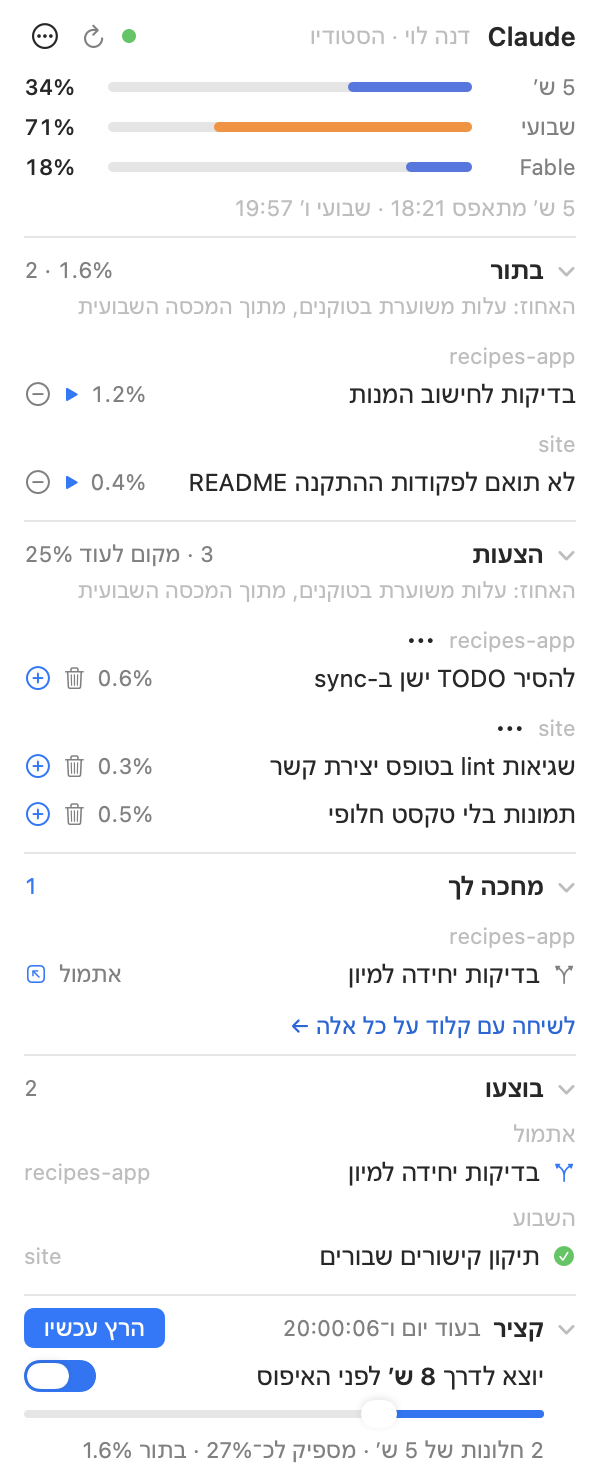
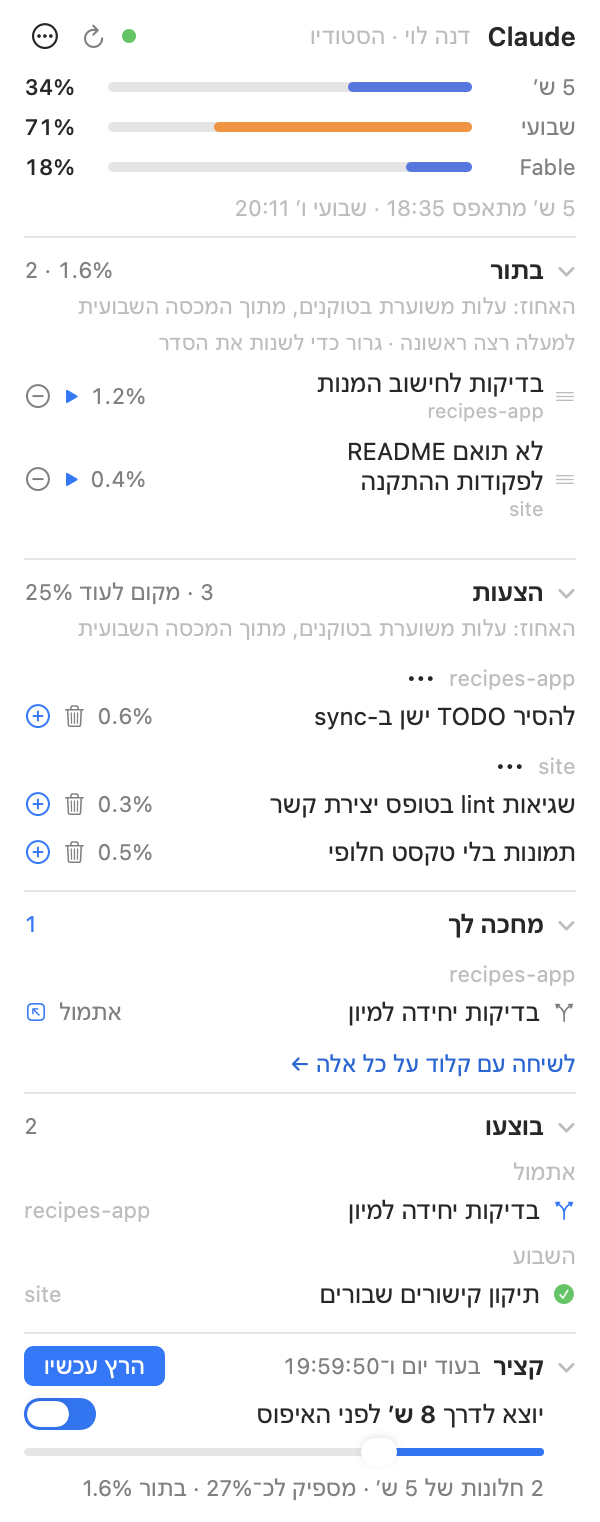
Drag the queue into your own order
The queue now shows as one list in the order the harvest runs it — the top
task first — and a task can be dragged (by its ≡ grip or anywhere on the row)
onto another to land above it, or below the last to go last. Left alone, the
order is automatic: priority, then the bigger estimate first.

The list and the run use one ordering (`ordered_queue` in the engine): before
this, the panel sorted by priority and date added while `plan` picked by
priority and size, so what looked first didn't always run first. The owner's
order lives in ~/.claude/harvest/queue-order.json (`claude-harvest
queue-order <project>::<title>…`, `--reset`; refused in unattended runs); tasks
placed by hand come first, the rest follow automatically, and "↺ Back to the
automatic order" appears once anything was dragged. The project's name sits
under each title when the queue spans projects.

Help (both languages), SPEC, both READMEs and the screenshots updated. Engine:
32 tests (a new one: the owner's order across projects, in list and plan,
unknown keys ignored, reset, unattended refused). Installer: 6.

diff --git a/QuotaHarvest.swift b/QuotaHarvest.swift
@@ -511,6 +511,8 @@ struct HTask: Decodable, Identifiable, Equatable {
     let summary: String?
     let sessionId: String?
     let estimate: HEstimate?
+    /// In the queue: placed by the owner's drag rather than by the automatic order.
+    let placed: Bool?
     var id: String { project + "::" + title }
 }
 
@@ -1104,6 +1106,8 @@ protocol WidgetActions: AnyObject {
     func setProposals(project: String, name: String, on: Bool)
     func setLanguage(hebrew: Bool)
     func saveHarvestSettings(_ values: [String])
+    func moveQueued(_ id: String, before target: String?)
+    func resetQueueOrder()
 }
 
 final class WidgetModel: ObservableObject {
@@ -1117,6 +1121,8 @@ final class WidgetModel: ObservableObject {
     /// Whether the harvest engine is installed; until it is, the panel shows only the usage and
     /// an invitation to set it up. True until the first check, so nothing flashes at start.
     @Published var harvestInstalled = true
+    /// The queued task a dragged one would land above while it's held over it ("end" = the bottom).
+    @Published var queueDropTarget: String?
     @Published var listing = HListing() {
         didSet {
             if let dir = listing.settings?.workdir, !dir.isEmpty {
@@ -1299,11 +1305,62 @@ struct PanelView: View {
             EmptyLine(text: L("התור ריק — ⊕ ליד הצעה מכניס אותה לתור", "The queue is empty — ⊕ next to a proposal puts it in"))
         } else {
             PctCaption()
-            ByProject(tasks: m.listing.queue) { t in
-                TaskRow(task: t, queued: true, onRun: { m.actions?.runOne(t) },
-                        onToggle: { m.actions?.setQueued(t, $0) })
+            Text(L("למעלה רצה ראשונה · גרור כדי לשנות את הסדר", "Top runs first · drag to change the order"))
+                .font(.system(size: 10)).foregroundStyle(.tertiary)
+            if m.listing.queue.count > 8 {
+                ScrollView { orderedQueue }.frame(height: 220)
+            } else {
+                orderedQueue
+            }
+            if m.listing.queue.contains(where: { $0.placed == true }) {
+                Button(L("↺ חזרה לסדר האוטומטי (חשיבות, ואז גודל)", "↺ Back to the automatic order (priority, then size)")) {
+                    m.actions?.resetQueueOrder()
+                }
+                .buttonStyle(.link).font(.system(size: 11)).padding(.top, 3)
             }
         }
+    }
+
+    /// The queue as one list in the order it runs. Each row can be dragged (by the grip, or anywhere
+    /// on it) and dropped on another row to land above it, or below the last row to go last.
+    var orderedQueue: some View {
+        let manyProjects = Set(m.listing.queue.map(\.project)).count > 1
+        return VStack(alignment: .leading, spacing: 0) {
+            ForEach(m.listing.queue) { t in
+                HStack(spacing: 5) {
+                    Image(systemName: "line.3.horizontal").font(.system(size: 9)).foregroundStyle(.tertiary)
+                        .help(L("גרור כדי לשנות את סדר הביצוע", "Drag to change the order they run in"))
+                    TaskRow(task: t, queued: true, onRun: { m.actions?.runOne(t) },
+                            onToggle: { m.actions?.setQueued(t, $0) }, showProject: manyProjects)
+                }
+                .contentShape(Rectangle())
+                .overlay(alignment: .top) { dropLine(m.queueDropTarget == t.id) }
+                .draggable(t.id) {
+                    Text(t.title).font(.system(size: 12)).padding(6)
+                        .background(RoundedRectangle(cornerRadius: 6).fill(Color(nsColor: .windowBackgroundColor)))
+                }
+                .dropDestination(for: String.self) { ids, _ in
+                    guard let id = ids.first, id != t.id else { return false }
+                    m.actions?.moveQueued(id, before: t.id)
+                    return true
+                } isTargeted: { over in
+                    if over { m.queueDropTarget = t.id } else if m.queueDropTarget == t.id { m.queueDropTarget = nil }
+                }
+            }
+            Color.clear.frame(height: 8).contentShape(Rectangle())
+                .overlay(alignment: .top) { dropLine(m.queueDropTarget == "end") }
+                .dropDestination(for: String.self) { ids, _ in
+                    guard let id = ids.first else { return false }
+                    m.actions?.moveQueued(id, before: nil)
+                    return true
+                } isTargeted: { over in
+                    if over { m.queueDropTarget = "end" } else if m.queueDropTarget == "end" { m.queueDropTarget = nil }
+                }
+        }
+    }
+
+    func dropLine(_ shown: Bool) -> some View {
+        Rectangle().fill(shown ? Color.accentColor : Color.clear).frame(height: 2)
     }
 
     @ViewBuilder var proposalList: some View {
@@ -1780,11 +1837,18 @@ struct TaskRow: View {
     let onRun: (() -> Void)?
     let onToggle: (Bool) -> Void
     var onRemove: (() -> Void)? = nil
+    /// The project's name under the title — the queue shows one list across projects.
+    var showProject = false
 
     var body: some View {
         HStack(spacing: 6) {
-            Text(task.title).lineLimit(2).truncationMode(.tail).fixedSize(horizontal: false, vertical: true)
-                .frame(maxWidth: .infinity, alignment: .leading)
+            VStack(alignment: .leading, spacing: 0) {
+                Text(task.title).lineLimit(2).truncationMode(.tail).fixedSize(horizontal: false, vertical: true)
+                if showProject {
+                    Text(task.projectName).font(.system(size: 10)).foregroundStyle(.tertiary).lineLimit(1)
+                }
+            }
+            .frame(maxWidth: .infinity, alignment: .leading)
             Text(pctText(task.pct)).font(.system(size: 11)).monospacedDigit().foregroundStyle(.secondary)
                 .help(L("עלות משוערת: כ־\(task.tokens / 1000) אלף טוקנים, \(pctText(task.pct)) מהמכסה השבועית",
                         "Estimated cost: ~\(task.tokens / 1000)K tokens, \(pctText(task.pct)) of the weekly quota"))
@@ -1892,6 +1956,8 @@ struct HelpView: View {
             "ליד כל משימה: כמה אחוזים מהמכסה השבועית היא צפויה לעלות. זו הערכה, והיא משתפרת עם כל ריצה.",
             "**▶** מריץ רק את המשימה הזאת, עכשיו. **⊖** מוציא אותה מהתור ומחזיר אותה להצעות — היא לא תרוץ עד שתכניס אותה שוב.",
             "בכותרת: כמה משימות, וכמה אחוזים כולן יחד.",
+            "**הסדר ברשימה הוא סדר הביצוע** — העליונה רצה ראשונה. בלי התערבות שלך הסדר הוא לפי חשיבות, ובאותה חשיבות הגדולה קודם.",
+            "**גרירה:** תופסים משימה (או את הידית ≡ שלידה) ומשחררים על משימה אחרת — היא נוחתת מעליה; מתחת לאחרונה — היא עוברת לסוף. **\"חזרה לסדר האוטומטי\"** מבטל את מה שגררת.",
         ]),
         ("הצעות", [
             "משימות שעוד לא אישרת: רעיונות שסוכן רשם כשעבד לבד, או משימות שהשהית. הן לא ירוצו.",
@@ -1953,6 +2019,8 @@ struct HelpView: View {
             "Next to each task: what share of the weekly quota it's expected to cost. It's an estimate, and it gets better with every run.",
             "**▶** runs just this task, now. **⊖** takes it out of the queue, back to the proposals — it won't run until you put it back.",
             "In the header: how many tasks, and how many percent they come to together.",
+            "**The list's order is the order they run in** — the top one runs first. Left alone, it's by priority, and within a priority the bigger task first.",
+            "**Dragging:** grab a task (or the ≡ grip next to it) and drop it on another one — it lands above it; below the last one — it goes last. **\"Back to the automatic order\"** undoes what you dragged.",
         ]),
         ("Proposals", [
             "Tasks you haven't approved yet: ideas an agent noted while working on its own, or tasks you paused. They don't run.",
@@ -3520,6 +3588,26 @@ final class AppDelegate: NSObject, NSApplicationDelegate, WidgetActions, UNUserN
         model.objectWillChange.send()
         settingsWindow?.title = L("הגדרות — קציר מכסה", "Settings — Quota harvest")
         if model.harvestInstalled { saveHarvestSettings(["language=" + (hebrew ? "he" : "en")]) }
+    }
+
+    /// A dragged queued task lands above `target` (or last): the whole new order goes to the engine,
+    /// which then runs the queue in it. Shown at once; the next listing confirms it.
+    func moveQueued(_ id: String, before target: String?) {
+        model.queueDropTarget = nil
+        var queue = model.listing.queue
+        guard let from = queue.firstIndex(where: { $0.id == id }) else { return }
+        let task = queue.remove(at: from)
+        let to = target.flatMap { t in queue.firstIndex(where: { $0.id == t }) } ?? queue.count
+        queue.insert(task, at: to)
+        guard queue.map(\.id) != model.listing.queue.map(\.id) else { return }
+        var l = model.listing
+        l.queue = queue
+        model.listing = l
+        runEngine(["queue-order"] + queue.map(\.id)) { [weak self] _ in self?.refreshListing() }
+    }
+
+    func resetQueueOrder() {
+        runEngine(["queue-order", "--reset"]) { [weak self] _ in self?.refreshListing() }
     }
 
     /// A proposal's trash can: dropped at once (the engine keeps a note, so it isn't proposed again).

diff --git a/harvest/home/bin/harvest.py b/harvest/home/bin/harvest.py
@@ -33,6 +33,8 @@ SKILL_REFS = os.path.expanduser(os.environ.get("HARVEST_SKILL_REFS", "~/.claude/
 WORKTREE_PREFIX = "harvest-"
 HISTORY = os.path.join(HOME, "history.jsonl")
 TALK = os.path.join(HOME, "talk.json")
+# The owner's own order for the queue (dragged in the widget): task keys "<project>::<title>", first to run first.
+QUEUE_ORDER = os.path.join(HOME, "queue-order.json")
 MERGED_RE = re.compile(r"merged (\d{4}-\d{2}-\d{2})")
 DONE_LIST_DAYS = 30
 DONE_LIST_MAX = 40
@@ -166,6 +168,23 @@ TEXT = {
 }
 # A failed task's result starts with this marker in either language; a second failure blocks it.
 FAILED_MARKERS = (" · נכשל", " · failed")
+
+
+def task_key(t):
+    return t["project"] + "::" + t["title"]
+
+
+def manual_order():
+    return [k for k in (read_json(QUEUE_ORDER, {}) or {}).get("keys", []) if isinstance(k, str)]
+
+
+def ordered_queue(tasks):
+    """The order queued tasks run in — and are shown in: first those the owner placed by hand, in their order;
+    then the rest by priority, the bigger task first within a priority (it fits best early, while the budget
+    is widest)."""
+    place = {k: i for i, k in enumerate(manual_order())}
+    return sorted(tasks, key=lambda t: (0, place[task_key(t)], 0) if task_key(t) in place
+                  else (1, t["priority"], -t["tokens"]))
 
 
 def proposals_off(repo):
@@ -683,10 +702,11 @@ def cmd_list(a):
             done.append(t)
     done.sort(key=lambda t: t.get("ageDays", 0))
     lk = read_lock()
+    placed = set(manual_order())
     emit({
         "now": iso(now()),
         "projects": infos,
-        "queue": sorted([t for t in tasks if t["status"] == "open"], key=by_priority),
+        "queue": [dict(t, placed=task_key(t) in placed) for t in ordered_queue([t for t in tasks if t["status"] == "open"])],
         "proposals": sorted([t for t in tasks if t["status"] == "proposed"], key=by_priority),
         "needsYou": [t for t in tasks if t["status"] == "blocked"
                      or (t["status"] == "done" and t.get("branchState") == "unmerged")],
@@ -748,6 +768,28 @@ def cmd_proposals(a):
     saved["noProposals"] = current
     write_json(SETTINGS, saved)
     emit({"ok": True, "project": repo, "proposals": a.state, "dropped": dropped})
+
+
+def cmd_queue_order(a):
+    """`queue-order <key>…`: the owner's order for the queue, first to run first — keys are "<project>::<title>"
+    of queued tasks (others are dropped). Queued tasks not named keep the automatic order after them.
+    `--reset` forgets the owner's order. Only the owner: never from an unattended run."""
+    if os.environ.get("HARVEST_UNATTENDED"):
+        fail("unattended runs cannot reorder the queue")
+    if a.reset:
+        if os.path.exists(QUEUE_ORDER):
+            os.remove(QUEUE_ORDER)
+    else:
+        tasks, _ = all_tasks(ratio())
+        queued = {task_key(t) for t in tasks if t["status"] == "open"}
+        keys = []
+        for k in a.keys:
+            if k in queued and k not in keys:
+                keys.append(k)
+        write_json(QUEUE_ORDER, {"keys": keys})
+    tasks, _ = all_tasks(ratio())
+    emit({"ok": True, "manual": bool(manual_order()),
+          "queue": [task_key(t) for t in ordered_queue([t for t in tasks if t["status"] == "open"])]})
 
 
 def cmd_set_status(a):
@@ -868,7 +910,7 @@ def cmd_plan(a):
     tasks, infos = all_tasks(r)
     only = set(a.only or [])
     candidates = [x for x in tasks if x["status"] == "open" and (not only or x["project"] + "::" + x["title"] in only)]
-    candidates.sort(key=lambda x: (x["priority"], -x["tokens"]))
+    candidates = ordered_queue(candidates)
     minutes_left = (reset - t).total_seconds() / 60
     deferred_budget = False
     for c in candidates:
@@ -1760,6 +1802,11 @@ def main():
     ap = argparse.ArgumentParser(prog="harvest.py", description=__doc__)
     sub = ap.add_subparsers(dest="cmd", required=True)
     sub.add_parser("list").set_defaults(fn=cmd_list)
+
+    p = sub.add_parser("queue-order")
+    p.add_argument("keys", nargs="*", metavar="PROJECT::TITLE")
+    p.add_argument("--reset", action="store_true")
+    p.set_defaults(fn=cmd_queue_order)
 
     p = sub.add_parser("proposals")
     p.add_argument("project"); p.add_argument("state", choices=("on", "off"))

diff --git a/harvest/home/bin/test_harvest.py b/harvest/home/bin/test_harvest.py
@@ -115,6 +115,33 @@ class Harvest(unittest.TestCase):
         self.usage(reset_in_h=0.2)
         self.assertEqual(self.run_engine("plan")["reason"], "cutoff-near")
 
+    def test_the_owner_can_order_the_queue(self):
+        self.add("Urgent big", tokens=90000)
+        self.run_engine("set-status", self.repo, "Urgent big", "open")
+        self.add("Later small", tokens=60000)
+        beta = self.make_repo("beta")
+        self.run_engine("add", beta, "--title", "Other project", "--details", "d", "--complexity", "low", "--tokens", "70000")
+        # Automatic order: priority, then the bigger estimate first — and plan runs the list's first task.
+        queue = self.run_engine("list")["queue"]
+        auto = [t["title"] for t in queue]
+        self.assertEqual(sorted(queue, key=lambda t: (t["priority"], -t["tokens"])), queue)
+        self.usage()
+        self.assertEqual(self.run_engine("plan", "--mode", "manual")["next"]["title"], auto[0])
+        self.assertNotEqual(auto[0], "Later small", "the test needs the dragged task not to be first already")
+        # The owner drags "Later small" to the top; a key that isn't queued is ignored.
+        r = self.run_engine("queue-order", self.repo + "::Later small", "/nowhere::Ghost")
+        self.assertTrue(r["manual"])
+        listing = self.run_engine("list")
+        self.assertEqual([t["title"] for t in listing["queue"]], ["Later small", "Urgent big", "Other project"])
+        self.assertEqual([t["placed"] for t in listing["queue"]], [True, False, False])
+        self.assertEqual(self.run_engine("plan", "--mode", "manual")["next"]["title"], "Later small")
+        # A full order across projects.
+        self.run_engine("queue-order", beta + "::Other project", self.repo + "::Urgent big", self.repo + "::Later small")
+        self.assertEqual([t["title"] for t in self.run_engine("list")["queue"]], ["Other project", "Urgent big", "Later small"])
+        self.run_engine("queue-order", "--reset", env=dict(self.env, HARVEST_UNATTENDED="1"), code=2)
+        self.assertFalse(self.run_engine("queue-order", "--reset")["manual"])
+        self.assertEqual([t["title"] for t in self.run_engine("list")["queue"]], auto)
+
     def test_plan_five_hour_full_is_not_final(self):
         self.add("Big task here", complexity="high", tokens=400000)
         self.usage(five=84, weekly=40, reset_in_h=7, session_reset_in_h=2)

diff --git a/SPEC.md b/SPEC.md
@@ -93,7 +93,16 @@ BACKLOG.md itself. Files under `~/.claude/harvest/`, one writer each:
 Panel sections (from `harvest.py list`, refreshed every 30 s while the panel is
 open or a harvest runs, else every 2 min):
 
-- **בתור** — `open` tasks grouped by project: title, cost as % of the weekly
+- **בתור** — `open` tasks as one list in the order they run (`ordered_queue` in the
+  engine, used by both `list` and `plan`): first those the owner placed by dragging, in
+  their order (`queue-order.json`, `claude-harvest queue-order <key>…`, keys
+  `<project>::<title>`), then the rest by priority and, within a priority, the bigger
+  estimate first. Rows have a ≡ grip, the project's name under the title when the queue
+  spans projects, and can be dragged (`.draggable` / `.dropDestination`, the target shown by
+  an accent line — `WidgetModel.queueDropTarget`) onto another row to land above it, or
+  below the last to go last; the whole new order is sent at once. "↺ Back to the automatic
+  order" (shown while any task is `placed`) runs `queue-order --reset`. Refused in
+  unattended runs. More than 8 rows scroll in 220 pt. Each row: title, cost as % of the weekly
   quota (the engine's estimate ÷ its calibrated tokens-per-point; the estimate is
   turns × (the project's starting context + growth) — measured per project from its
   sessions, predicted from its CLAUDE.md size until then; the tooltip shows both parts), ▶ to run only that

diff --git a/README.he.md b/README.he.md
@@ -44,7 +44,7 @@ cd quota-harvest
 
 ## שימוש
 
-- **בתור** — משימות שאישרת, עם ההערכה כמה מהמכסה השבועית כל אחת תעלה. ▶ מריץ אחת עכשיו; ⊖ מוציא מהתור.
+- **בתור** — משימות שאישרת, העליונה ראשונה, עם ההערכה כמה מהמכסה השבועית כל אחת תעלה. הן רצות לפי חשיבות, אלא אם גוררים אותן לסדר משלך. ▶ מריץ אחת עכשיו; ⊖ מוציא מהתור.
 - **הצעות** — ⊕ = אישור, פח = מחיקה, ⋯ ליד פרויקט = "בלי הצעות מהפרויקט הזה".
 - **מחכה לך** — ענפים שהסתיימו ושאלות; לחיצה פותחת שיחה שמסבירה את השינוי.
 - **בוצעו** — 30 הימים האחרונים; לחיצה פותחת את השיחה שעשתה את המשימה.

diff --git a/README.md b/README.md
@@ -42,7 +42,7 @@ Anything it replaces is backed up first. At the end it offers a short getting-st
 
 ## Using it
 
-- **Queue** — approved tasks, with each one's estimated share of your weekly quota. ▶ runs one now; ⊖ takes it out of the queue.
+- **Queue** — approved tasks, top first, with each one's estimated share of your weekly quota. They run by priority unless you drag them into your own order. ▶ runs one now; ⊖ takes it out of the queue.
 - **Proposals** — ⊕ to approve, the trash can to delete, ⋯ next to a project for "no proposals from this project".
 - **Waiting for you** — finished branches and questions; a click opens a Claude session that walks you through the change.
 - **Done** — the last 30 days; a click opens the session that did the task.
